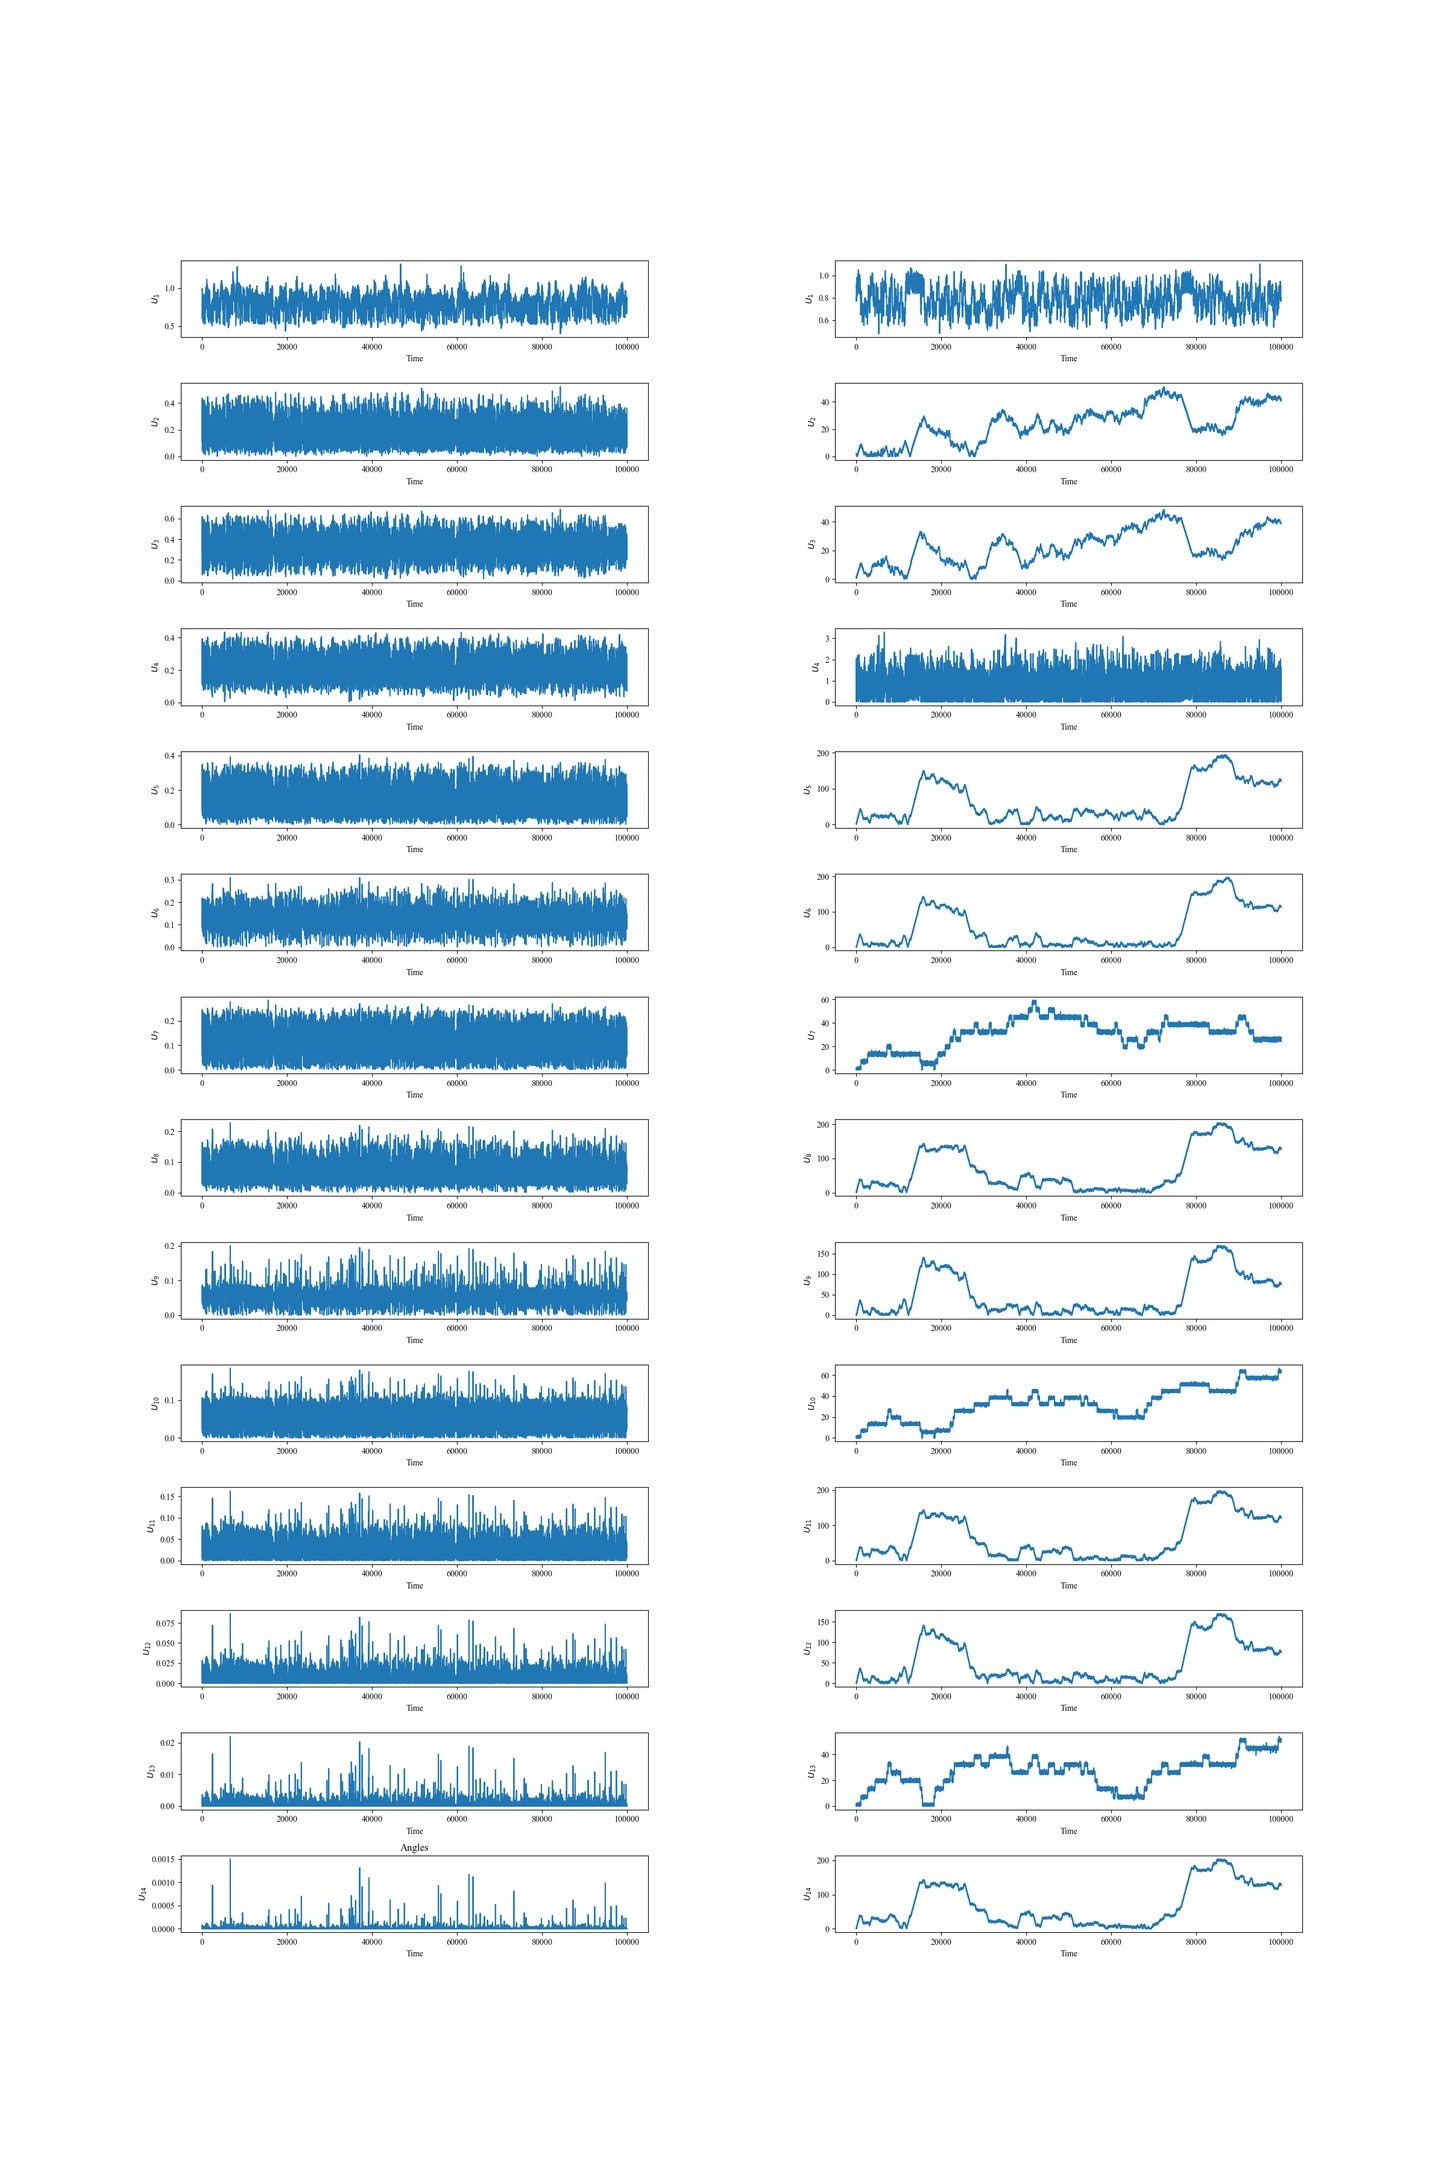
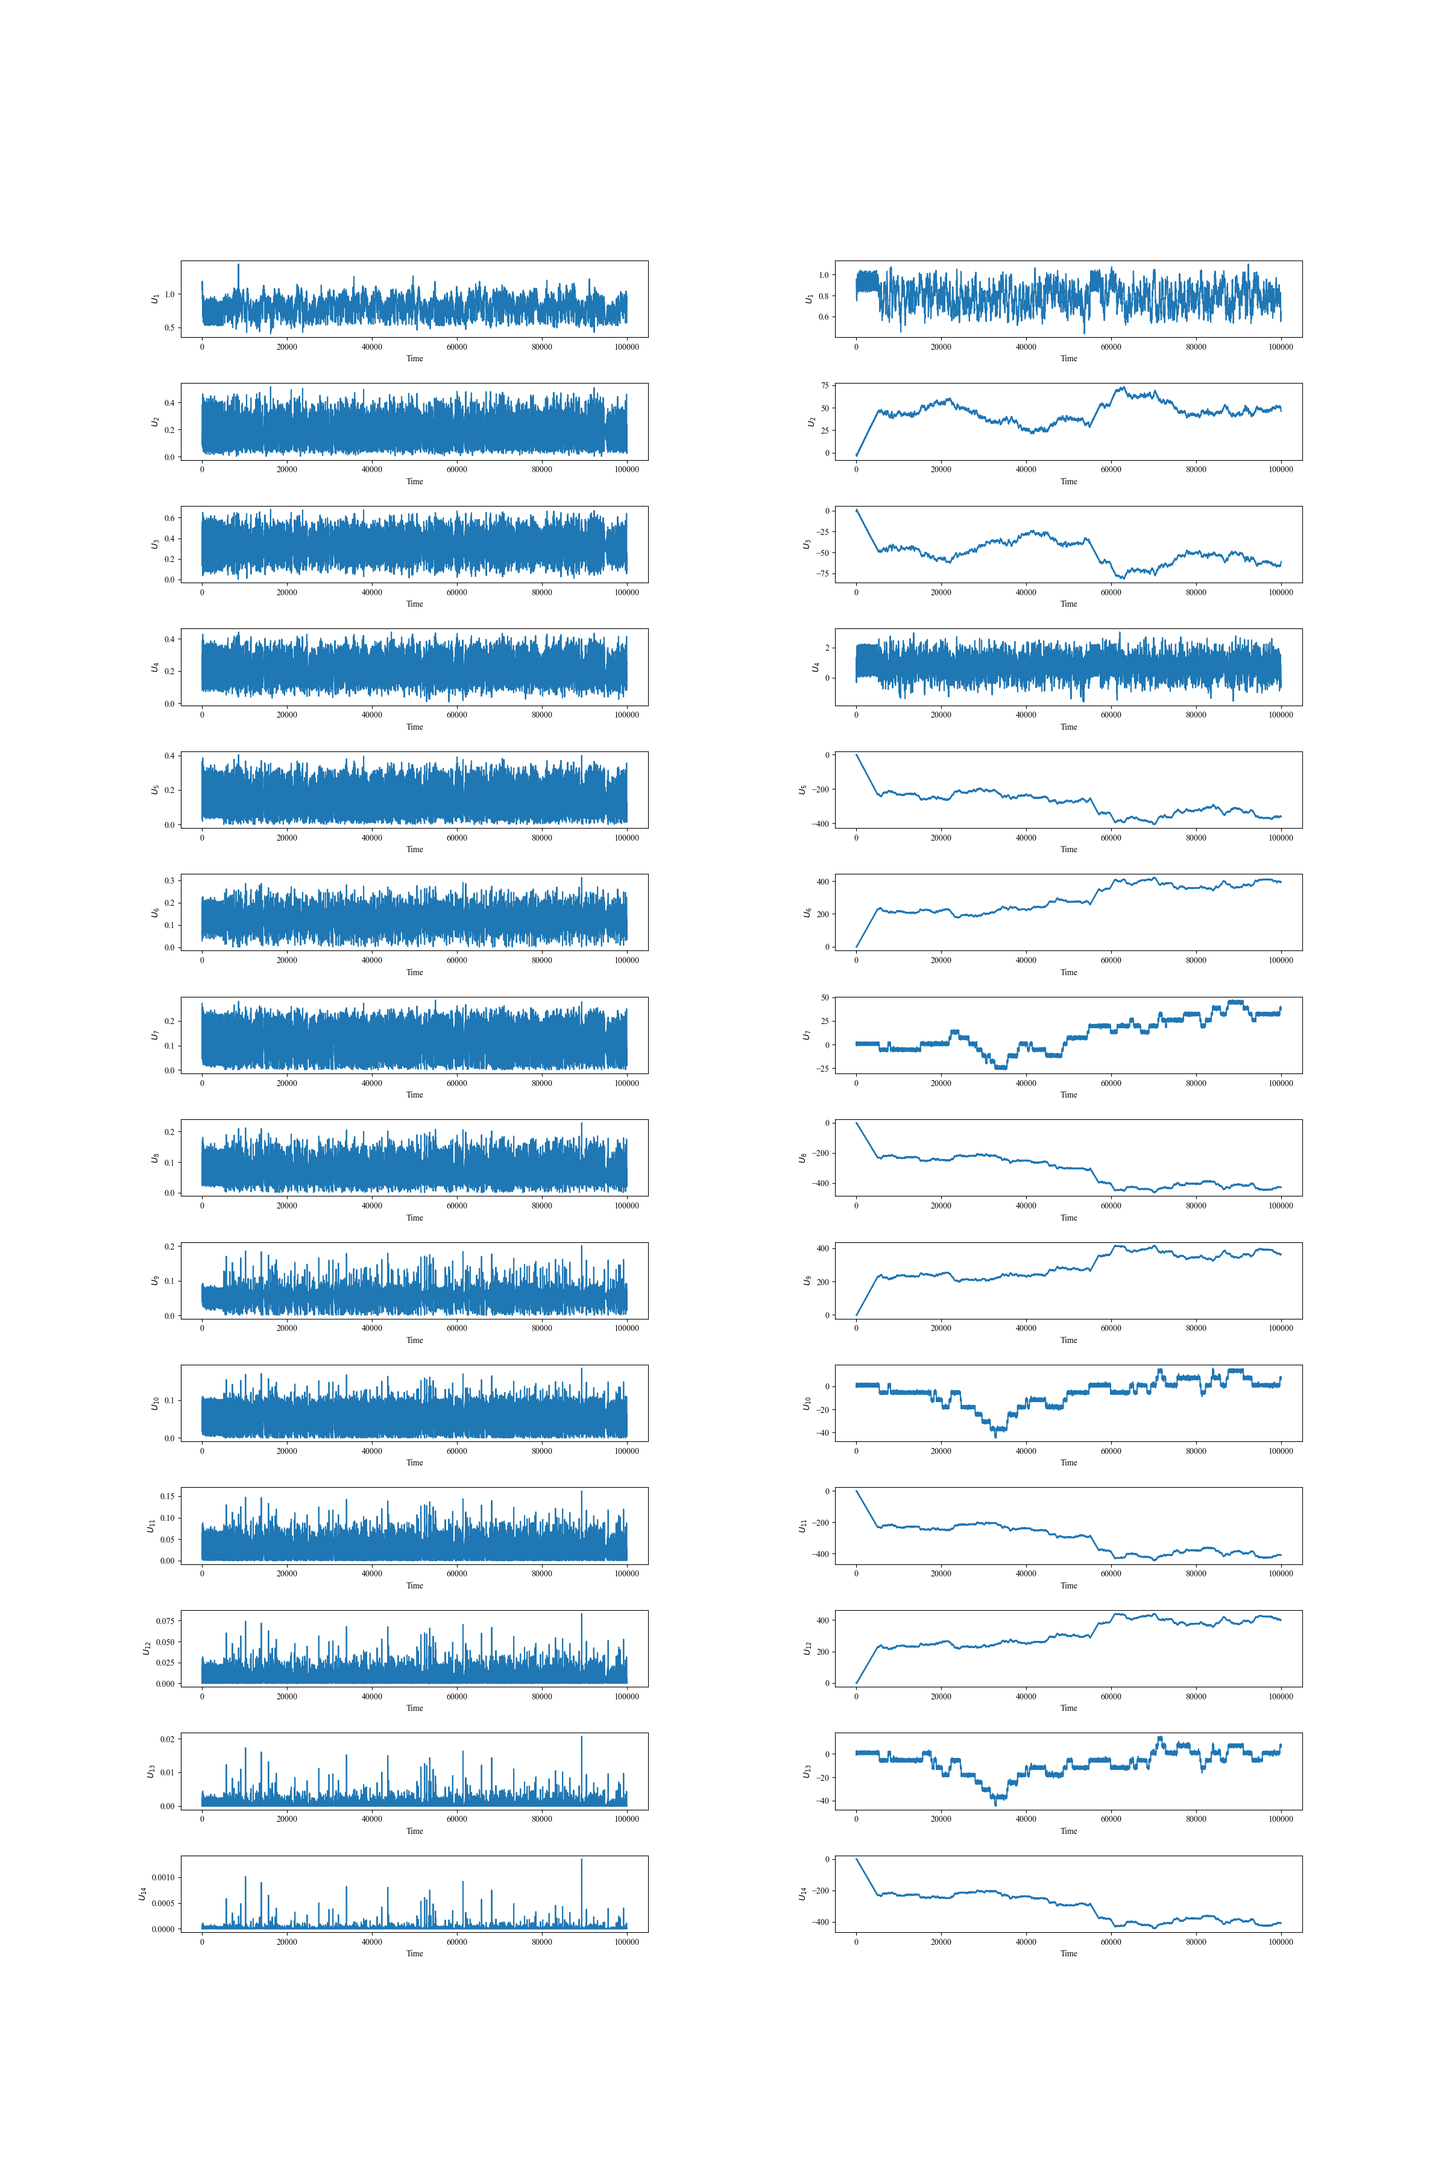
Update trajectory_observation.cpp with new beta value

diff --git a/code/stagger_and_step_sync.cpp b/code/stagger_and_step_sync.cpp
@@ -30,18 +30,20 @@ std::tuple<Eigen::VectorXd, Eigen::VectorXd, Eigen::VectorXcd> calc_next(ShellMo
 int main(){
     auto start = std::chrono::system_clock::now(); // 計測開始時間
     const double nu = 0.00018;
-    const double beta = 0.429;
+    const double beta = 0.417;
     const std::complex<double> f = std::complex<double>(1.0,1.0) * 5.0 * 0.001;
     const double dt = 0.01;
     const double t_0 = 0;
-    const double t = 10000;
+    const double t = 20000;
     const double latter = 1;
-    const double check = 1000;
-    const double progress = 10;
+    const double check = 7000;
+    const double progress = 100;
+    const int perturb_min = -10;
+    const int perturb_max = -4;
     int limit = 1e+5; //limitation of trial of stagger and step
-    Eigen::MatrixXcd loaded = npy2EigenMat<std::complex<double>>("../../generated_lam/sync_gen_laminar_beta_0.429nu_0.00018_dt0.01_1000period1000check10progress10^-5-10^-3perturb_4-7_4-10_4-13_7-10_7-13_10-13_5-8_5-11_5-14_8-11_8-14_11-14_6-9_6-12_9-12.npy");
-    Eigen::VectorXcd x_0 = loaded.block(0, 1000*100, 14, 1);
-    // Eigen::VectorXcd x_0 = npy2EigenVec<std::complex<double>>("../../initials/beta0.429_nu0.00018_1500period_dt0.01_4-7_4-10_4-13_7-10_7-13_10-13_5-8_5-11_5-14_8-11_8-14_11-14_6-9_6-12_9-12.npy");
+    // Eigen::MatrixXcd loaded = npy2EigenMat<std::complex<double>>("../../generated_lam/sync_gen_laminar_beta_0.429nu_0.00018_dt0.01_1000period1000check10progress10^-5-10^-3perturb_4-7_4-10_4-13_7-10_7-13_10-13_5-8_5-11_5-14_8-11_8-14_11-14_6-9_6-12_9-12.npy");
+    // Eigen::VectorXcd x_0 = loaded.block(0, 1000*100, 14, 1);
+    Eigen::VectorXcd x_0 = npy2EigenVec<std::complex<double>>("../../initials/beta0.417_nu0.00018_5000period_dt0.01_5-8_5-11_5-14_8-11_8-14_11-14_6-9_6-12_9-12.npy");
     ShellModel SM(nu, beta, f, dt, t_0, t, latter, x_0);
     Eigen::MatrixXcd Dummy_Laminar(x_0.rows()+1, 1); //dummy matrix to use LongLaminar Class
     LongLaminar LL(nu, beta, f, dt, t_0, t, latter, x_0, Dummy_Laminar, 0.01, 100, check, progress, 8);
@@ -49,22 +51,22 @@ int main(){
 
     //make pairs of shells to observe phase difference(num begins from 1)
     std::vector<std::tuple<int, int, double>> sync_pairs;
-    sync_pairs.push_back(std::make_tuple(4, 7, 2.3));
-    sync_pairs.push_back(std::make_tuple(4, 10, 2.3));
-    sync_pairs.push_back(std::make_tuple(4, 13, 2.3));
-    sync_pairs.push_back(std::make_tuple(7, 10, 2));
-    sync_pairs.push_back(std::make_tuple(7, 13, 2));
-    sync_pairs.push_back(std::make_tuple(10, 13, 1E-1));
+    // sync_pairs.push_back(std::make_tuple(4, 7, 2.3));
+    // sync_pairs.push_back(std::make_tuple(4, 10, 2.3));
+    // sync_pairs.push_back(std::make_tuple(4, 13, 2.3));
+    // sync_pairs.push_back(std::make_tuple(7, 10, 2));
+    // sync_pairs.push_back(std::make_tuple(7, 13, 2));
+    // sync_pairs.push_back(std::make_tuple(10, 13, 1E-1));
 
-    sync_pairs.push_back(std::make_tuple(5, 8, 2.3));
-    sync_pairs.push_back(std::make_tuple(5, 11, 2.3));
-    sync_pairs.push_back(std::make_tuple(5, 14, 2.3));
-    sync_pairs.push_back(std::make_tuple(8, 11, 0.7));
-    sync_pairs.push_back(std::make_tuple(8, 14, 0.7));
-    sync_pairs.push_back(std::make_tuple(11, 14, 1E-1));
+    // sync_pairs.push_back(std::make_tuple(5, 8, 2.3));
+    // sync_pairs.push_back(std::make_tuple(5, 11, 2.3));
+    // sync_pairs.push_back(std::make_tuple(5, 14, 2.3));
+    // sync_pairs.push_back(std::make_tuple(8, 11, 0.7));
+    // sync_pairs.push_back(std::make_tuple(8, 14, 0.7));
+    // sync_pairs.push_back(std::make_tuple(11, 14, 1E-1));
 
-    sync_pairs.push_back(std::make_tuple(6, 9, 2.3));
-    sync_pairs.push_back(std::make_tuple(6, 12, 2.3));
+    // sync_pairs.push_back(std::make_tuple(6, 9, 2.3));
+    // sync_pairs.push_back(std::make_tuple(6, 12, 2.3));
     sync_pairs.push_back(std::make_tuple(9, 12, 0.3));
 
     // sync_pairs.push_back(std::make_tuple(9, 12, 3.2)); // dummy to check all trajectory
@@ -168,7 +170,7 @@ int main(){
                 ShellModel Local_SM = SM; // copy of SM
                 std::vector<std::tuple<int, int, double>> Local_sync_pairs = sync_pairs; // copy of sync_pairs
                 double Local_now_time = Local_SM.get_t_0_();
-                Eigen::VectorXcd Local_x_0 = Local_LL.perturbation_(Local_SM.get_x_0_(), -10, -3);
+                Eigen::VectorXcd Local_x_0 = Local_LL.perturbation_(Local_SM.get_x_0_(), perturb_min, perturb_max); // perturbed initial state
                 Eigen::VectorXcd Local_now = Local_x_0; // perturbed initial state
                 Eigen::MatrixXcd Local_trajectory = Eigen::MatrixXcd::Zero(Local_now.rows()+1, progress_steps+1); //wide matrix for progress
                 Local_trajectory.topLeftCorner(Local_now.rows(), 1) = Local_now;

diff --git a/code/extract_sync.cpp b/code/extract_sync.cpp
@@ -28,34 +28,41 @@ bool isSync(double a, double b, double epsilon);
 int main(){
     auto start = std::chrono::system_clock::now(); // 計測開始時間
     double nu = 1.8e-4;
-    double beta = 0.469363;
+    double beta = 0.417;
     std::complex<double> f = std::complex<double>(1.0,1.0) * 5.0 * 0.001;
     double dt = 0.01;
     double t_0 = 0;
-    double t = 1e+6;
+    double t = 5e+5;
     double latter = 1;
     int numthreads = omp_get_max_threads();
     int window = 1000; // how long the sync part should be. (sec)
     window *= 100; // 100 when dt = 0.01 
-    int trim = 100; // how much to trim from both starts and ends of sync part
+    int trim = 500; // how much to trim from both starts and ends of sync part
 
     //make pairs of shells to observe phase difference(num begins from 1)
     std::vector<std::tuple<int, int, double>> sync_pairs;
 
-    sync_pairs.push_back(std::make_tuple(5, 8, 2.3));
-    sync_pairs.push_back(std::make_tuple(5, 11, 2.3));
-    sync_pairs.push_back(std::make_tuple(5, 14, 2.3));
-    sync_pairs.push_back(std::make_tuple(8, 11, 0.7));
-    sync_pairs.push_back(std::make_tuple(8, 14, 0.7));
-    sync_pairs.push_back(std::make_tuple(11, 14, 1E-1));
+    // sync_pairs.push_back(std::make_tuple(4, 7, 2.3));
+        // sync_pairs.push_back(std::make_tuple(4, 10, 2.3));
+        // sync_pairs.push_back(std::make_tuple(4, 13, 2.3));
+        // sync_pairs.push_back(std::make_tuple(7, 10, 2));
+        // sync_pairs.push_back(std::make_tuple(7, 13, 2));
+        // sync_pairs.push_back(std::make_tuple(10, 13, 1E-1));
 
-    sync_pairs.push_back(std::make_tuple(6, 9, 2.3));
-    sync_pairs.push_back(std::make_tuple(6, 12, 2.3));
-    sync_pairs.push_back(std::make_tuple(9, 12, 3e-1));
+        sync_pairs.push_back(std::make_tuple(5, 8, 2.3));
+        sync_pairs.push_back(std::make_tuple(5, 11, 2.3));
+        sync_pairs.push_back(std::make_tuple(5, 14, 2.3));
+        sync_pairs.push_back(std::make_tuple(8, 11, 0.7));
+        sync_pairs.push_back(std::make_tuple(8, 14, 0.7));
+        sync_pairs.push_back(std::make_tuple(11, 14, 1E-1));
+
+        sync_pairs.push_back(std::make_tuple(6, 9, 2.3));
+        sync_pairs.push_back(std::make_tuple(6, 12, 2.3));
+        sync_pairs.push_back(std::make_tuple(9, 12, 0.3));    
 
     // sync_pairs.push_back(std::make_tuple(1, 2, 4)); // dummy to check unextracted trajectory
 
-    Eigen::VectorXcd x_0 = npy2EigenVec("../../initials/beta0.469363_nu0.00011815_2000period.npy");
+    Eigen::VectorXcd x_0 = npy2EigenVec("../../initials/beta0.417_nu0.00018_5000period_dt0.01_5-8_5-11_5-14_8-11_8-14_11-14_6-9_6-12_9-12.npy");
     ShellModel solver(nu, beta, f, dt, t_0, t, latter, x_0);
     std::cout << "calculating trajectory" << std::endl;
     Eigen::MatrixXcd trajectory = solver.get_trajectory_(); //wide matrix
@@ -135,21 +142,21 @@ int main(){
     int skip = 1; // plot every skip points
     std::map<std::string, std::string> plotSettings;
     plotSettings["font.family"] = "Times New Roman";
-    plotSettings["font.size"] = "10";
+    plotSettings["font.size"] = "15";
     plt::rcparams(plotSettings);
     // Set the size of output image = 1200x780 pixels
-    plt::figure_size(1200, 600);
+    plt::figure_size(1500, 600);
     
     std::map<std::string, double> keywords;
-    keywords.insert(std::make_pair("hspace", 0.6)); // also right, top, bottom
-    keywords.insert(std::make_pair("wspace", 0.4)); // also hspace
     std::vector<double> x(synced[0].size()/skip),y(synced[0].size()/skip);
     for (int i = 0; i < x.size(); i++){
-        x[i] = std::abs(synced[3][i*skip]);
-        y[i] = std::abs(synced[4][i*skip]);
+        x[i] = std::abs(synced[14][i*skip]);
+        y[i] = std::abs(synced[0][i*skip]);
     }
-    plt::xlim(0.0, 0.4);
-    plt::ylim(0.0, 0.4);
+    // plt::xlim(0.0, 0.4);
+    plt::ylim(0.5, 1.2);
+    plt::xlabel("$t [sec]$");
+    plt::ylabel("$|U_{1}|$");
     plt::scatter(x, y);
 
     std::ostringstream oss;
@@ -193,7 +200,7 @@ int main(){
             matrix(i, j) = synced[i][j];
         }
     }
-    EigenMt2npy(matrix, fname);
+    // EigenMt2npy(matrix, fname);
 
     auto end = std::chrono::system_clock::now();  // 計測終了時間
     int hours = std::chrono::duration_cast<std::chrono::hours>(end-start).count(); //処理に要した時間を変換

diff --git a/code/phase_diff.cpp b/code/phase_diff.cpp
@@ -27,36 +27,36 @@ int shift(double pre_theta, double theta, int rotation_number);
 int main(){
     auto start = std::chrono::system_clock::now(); // 計測開始時間
     double nu = 0.00018;
-    double beta = 0.444;
+    double beta = 0.417;
     std::complex<double> f = std::complex<double>(1.0,1.0) * 5.0 * 0.001;
     double ddt = 0.01;
     double t_0 = 0;
-    double t = 5000;
+    double t = 1e+5;
 
     double latter = 1;
     int threads = omp_get_max_threads();
-    Eigen::VectorXcd x_0 = npy2EigenVec<std::complex<double>>("../../initials/beta0.444_nu0.00018_2000period_dt0.01_4-7_4-10_4-13_7-10_7-13_10-13_5-8_5-11_5-14_8-11_8-14_11-14_6-9_6-12_9-12.npy");
+    Eigen::VectorXcd x_0 = npy2EigenVec<std::complex<double>>("../../initials/beta0.417_nu0.00018_5000period_dt0.01_5-8_5-11_5-14_8-11_8-14_11-14_6-9_6-12_9-12.npy");
 
     //make pairs of shells to observe phase difference(num begins from 1)
     std::vector<std::pair<int, int>> sync_pairs;
 
-    sync_pairs.push_back(std::make_pair(4, 7));
-    sync_pairs.push_back(std::make_pair(4, 10));
-    sync_pairs.push_back(std::make_pair(4, 13));
-    sync_pairs.push_back(std::make_pair(7, 10));
-    sync_pairs.push_back(std::make_pair(7, 13));
-    sync_pairs.push_back(std::make_pair(10, 13));
+    // sync_pairs.push_back(std::make_pair(4, 7));
+    // sync_pairs.push_back(std::make_pair(4, 10));
+    // sync_pairs.push_back(std::make_pair(4, 13));
+    // sync_pairs.push_back(std::make_pair(7, 10));
+    // sync_pairs.push_back(std::make_pair(7, 13));
+    // sync_pairs.push_back(std::make_pair(10, 13));
 
-    sync_pairs.push_back(std::make_pair(5, 8));
-    sync_pairs.push_back(std::make_pair(5, 11));
-    sync_pairs.push_back(std::make_pair(5, 14));
-    sync_pairs.push_back(std::make_pair(8, 11));
-    sync_pairs.push_back(std::make_pair(8, 14));
-    sync_pairs.push_back(std::make_pair(11, 14));
+    // sync_pairs.push_back(std::make_pair(5, 8));
+    // sync_pairs.push_back(std::make_pair(5, 11));
+    // sync_pairs.push_back(std::make_pair(5, 14));
+    // sync_pairs.push_back(std::make_pair(8, 11));
+    // sync_pairs.push_back(std::make_pair(8, 14));
+    // sync_pairs.push_back(std::make_pair(11, 14));
 
     sync_pairs.push_back(std::make_pair(6, 9));
-    sync_pairs.push_back(std::make_pair(6, 12));
-    sync_pairs.push_back(std::make_pair(9, 12));
+    // sync_pairs.push_back(std::make_pair(6, 12));
+    // sync_pairs.push_back(std::make_pair(9, 12));
 
     ShellModel solver(nu, beta, f, ddt, t_0, t, latter, x_0);
     std::cout << "calculating trajectory" << std::endl;
@@ -107,7 +107,7 @@ int main(){
     plotSettings["font.size"] = "10";
     plt::rcparams(plotSettings);
     // Set the size of output image = 1200x780 pixels
-    plt::figure_size(800, 300*sync_pairs.size());
+    plt::figure_size(1200, 400*sync_pairs.size());
     
     std::map<std::string, double> keywords;
     keywords.insert(std::make_pair("hspace", 0.6)); // also right, top, bottom
@@ -128,9 +128,10 @@ int main(){
             y[i] = diff(i*skip);
         }
         plt::subplot(sync_pairs.size(), 1, counter);
-        plt::plot(x,y);
-        plt::xlabel("Time");
-        plt::ylabel("$|U_{" + std::to_string(pair.first) + "}-U_{" + std::to_string(pair.second) + "}|$");
+        plt::scatter(x,y);
+        plt::xlabel("t [sec]");
+        plt::ylabel("$|\\phi_" + std::to_string(pair.first) + "-\\phi_" + std::to_string(pair.second) + "|$");
+
     }
 
     std::ostringstream oss;

diff --git a/code/extract_sync_online.cpp b/code/extract_sync_online.cpp
@@ -43,12 +43,12 @@ int main(){
         trim *= 100; // when dt = 0.01
         int plotDim[] = {4, 5};
         int nu_num  = 1;
-        Eigen::VectorXd nus = Eigen::VectorXd::LinSpaced(nu_num, 0.000254692, 0.000254692);
+        Eigen::VectorXd nus = Eigen::VectorXd::LinSpaced(nu_num, 0.00026007, 0.00026007);
         // for (auto& nu : nus) nu = std::pow(10, nu);
         std::cout << nus << std::endl;
         int beta_num = 1;
-        Eigen::VectorXd betas = Eigen::VectorXd::LinSpaced(beta_num, 0.502525, 0.502525);
-        Eigen::VectorXcd x_0 = npy2EigenVec<std::complex<double>>("../../initials/beta0.423_nu0.00018_1229period_dt0.01eps0.003.npy");
+        Eigen::VectorXd betas = Eigen::VectorXd::LinSpaced(beta_num, 0.50101, 0.50101);
+        Eigen::VectorXcd x_0 = npy2EigenVec<std::complex<double>>("../../initials/beta0.417_nu0.00018_5000period_dt0.01_5-8_5-11_5-14_8-11_8-14_11-14_6-9_6-12_9-12.npy");
         int skip = 100; // plot every skip points
         std::vector<std::tuple<int, int, double>> sync_pairs;
 

diff --git a/code/phase.cpp b/code/phase.cpp
@@ -27,15 +27,15 @@ int shift(double pre_theta, double theta, int rotation_number);
 int main(){
     auto start = std::chrono::system_clock::now(); // 計測開始時間
     double nu = 0.00018;
-    double beta = 0.42;
+    double beta = 0.417;
     std::complex<double> f = std::complex<double>(1.0,1.0) * 5.0 * 0.001;
     double ddt = 0.01;
     double t_0 = 0;
-    double t = 2E+3;
+    double t = 1E+5;
     double latter = 1;
     int numthreads = omp_get_max_threads();
 
-    Eigen::VectorXcd x_0 = npy2EigenVec("../../initials/beta0.42_nu0.00018_3830period_dt0.01.npy");
+    Eigen::VectorXcd x_0 = npy2EigenVec("../../initials/beta0.417_nu0.00018_5000period_dt0.01_4-7_4-10_4-13_7-10_7-13_10-13_5-8_5-11_5-14_8-11_8-14_11-14_6-9_6-12_9-12.npy");
     ShellModel solver(nu, beta, f, ddt, t_0, t, latter, x_0);
     Eigen::MatrixXcd trajectory = solver.get_trajectory_();
     std::cout << "calculating trajectory" << std::endl;

diff --git a/code/trajectory_observation.cpp b/code/trajectory_observation.cpp
@@ -15,12 +15,12 @@ namespace plt = matplotlibcpp;
 int main(){
     auto start = std::chrono::system_clock::now(); // 計測開始時間
     double nu = 0.00018;
-    double beta = 0.417;
+    double beta = 0.4162;
     std::complex<double> f = std::complex<double>(1.0,1.0) * 5.0 * 0.001;
     double ddt = 0.01;
     double t_0 = 0;
     double t = 1e+5;
-    double latter = 2;
+    double latter = 1;
     Eigen::VectorXcd x_0 = npy2EigenVec<std::complex<double>>("../../initials/beta0.42_nu0.00018_2500period_dt0.01_4-7_4-10_4-13_7-10_7-13_10-13_5-8_5-11_5-14_8-11_8-14_11-14_6-9_6-12_9-12.npy");
     ShellModel solver(nu, beta, f, ddt, t_0, t, latter, x_0);
     Eigen::MatrixXcd trajectory = solver.get_trajectory_(); 
